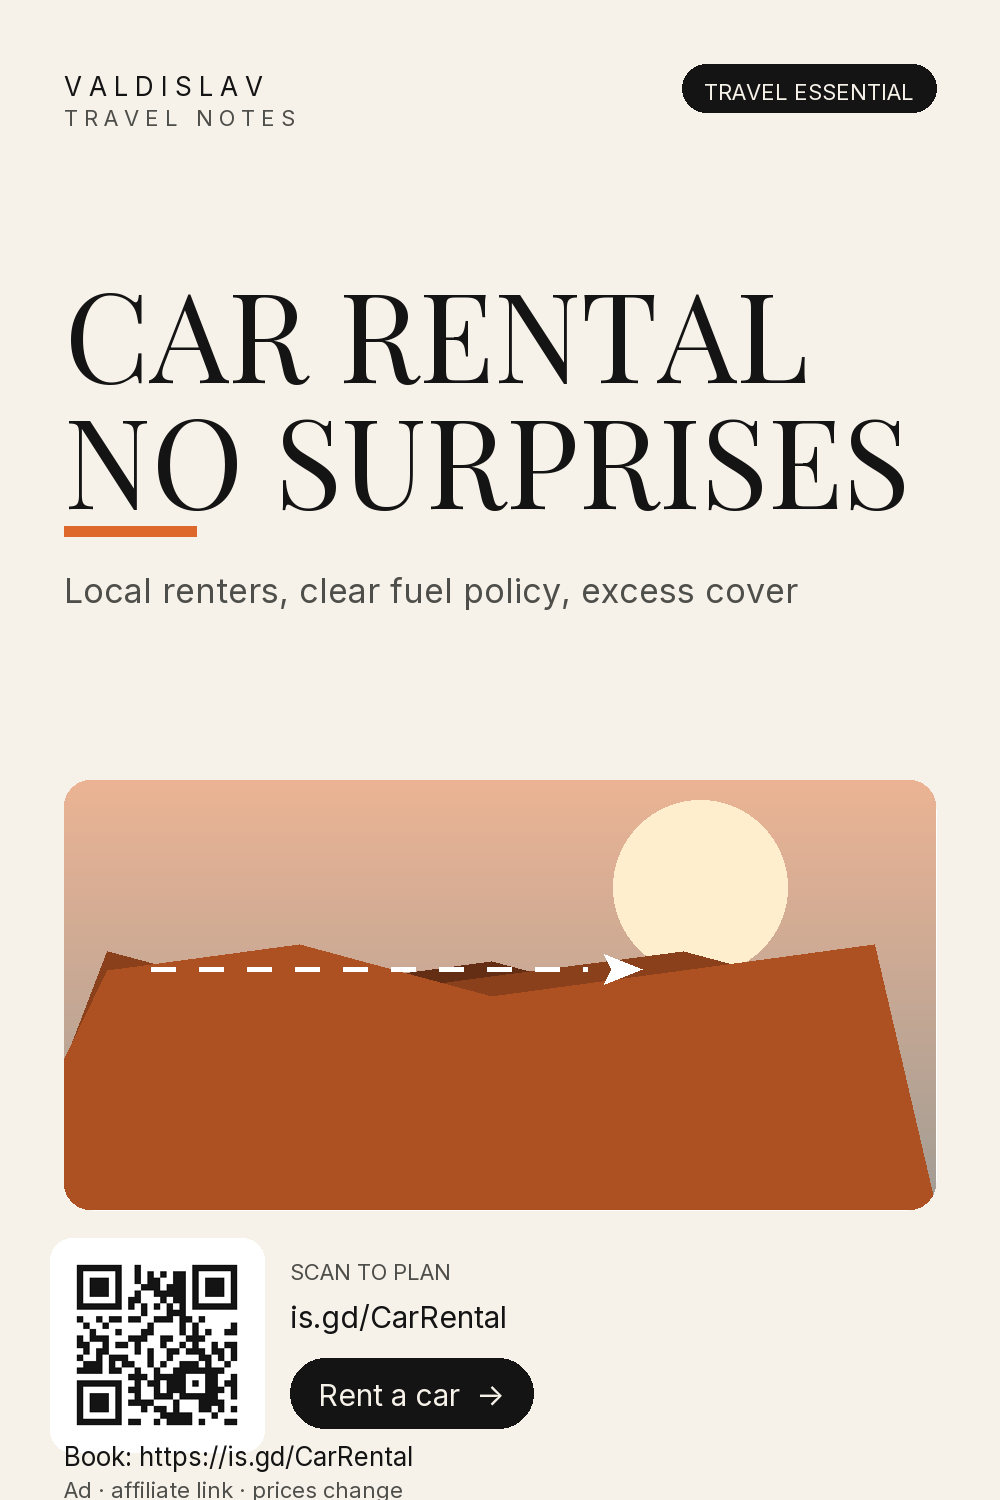
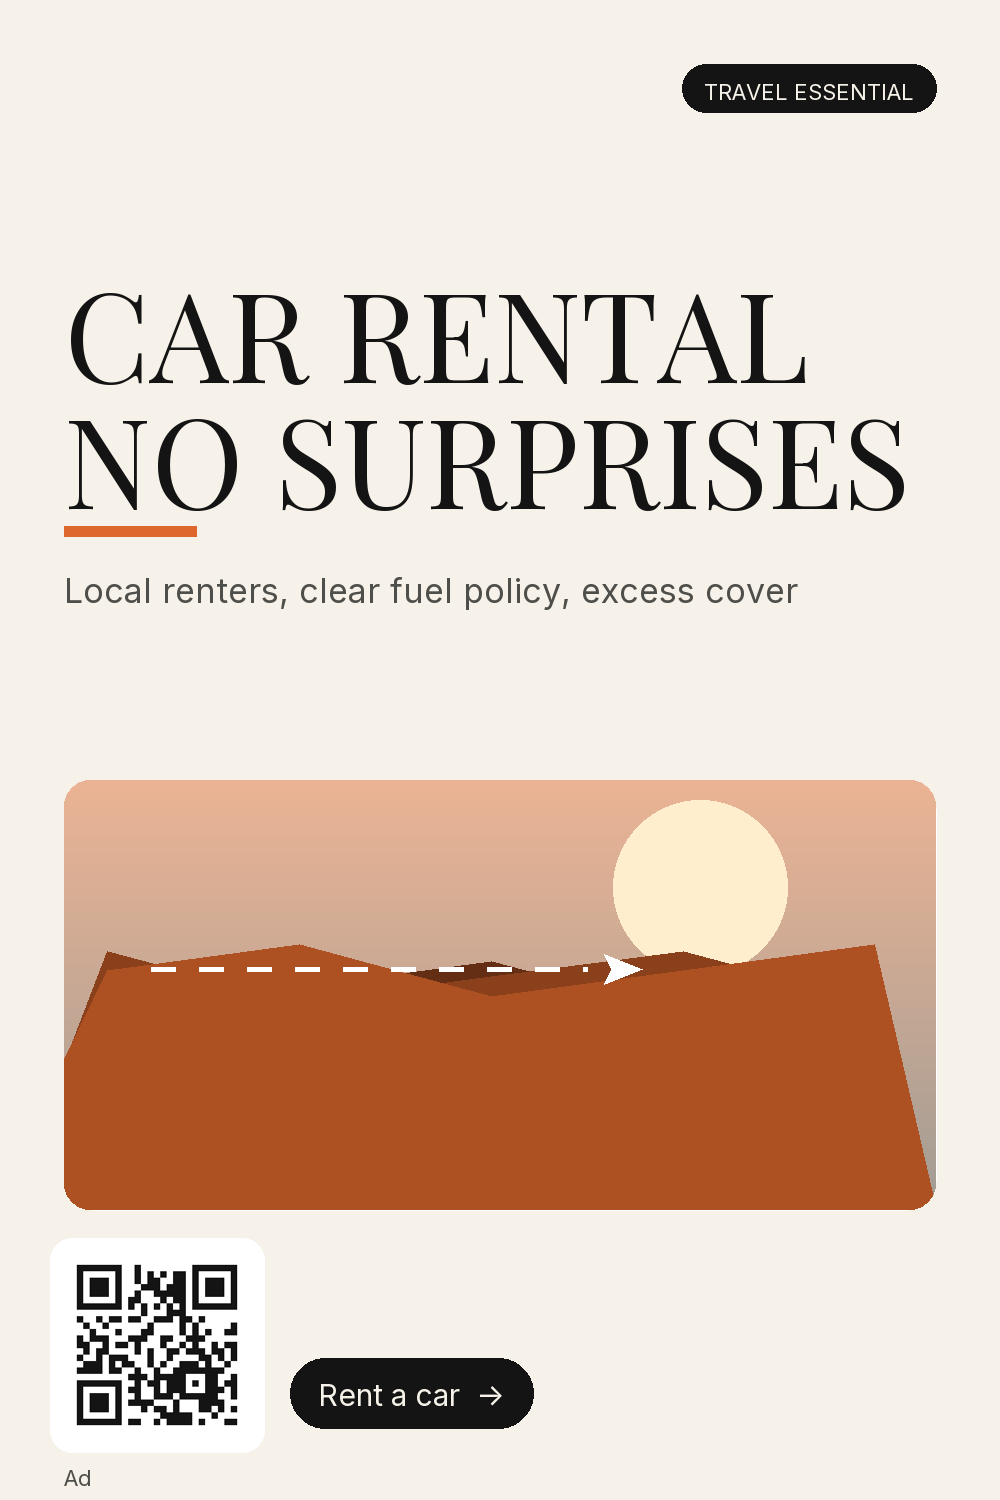
feat(pins): v3 — без бренд-подписей, без ссылок/QR-подписей (QR + CTA), футер только Ad

diff --git a/scripts/build_qr_pins_v2.py b/scripts/build_qr_pins_v2.py
@@ -70,8 +70,6 @@ def render(pin, out_dir):
     head=ImageFont.truetype(playfair,124); prom=ImageFont.truetype(inter,34)
     cta=ImageFont.truetype(inter,30); tiny=ImageFont.truetype(inter,22)
     accent=pin["accent"]
-    draw.text((64,70),"V A L D I S L A V",font=brand,fill=INK)
-    draw.text((64,104),"T R A V E L   N O T E S",font=tiny,fill=MUTED)
     tw=draw.textlength(pin["tag"],font=tagf)
     draw.rounded_rectangle((W-64-tw-44,64,W-64,112),radius=24,fill=INK)
     draw.text((W-64-tw-22,78),pin["tag"],font=tagf,fill=CREAM)
@@ -95,14 +93,10 @@ def render(pin, out_dir):
     qr_img=Image.open(buf).convert("RGB").resize((186,186))
     draw.rounded_rectangle((50,1238,50+186+28,1238+186+28),radius=22,fill=(255,255,255))
     img.paste(qr_img,(64,1252))
-    draw.text((64+186+40,1258),"SCAN TO PLAN",font=tiny,fill=MUTED)
-    draw.text((64+186+40,1298),pin["alias"],font=cta,fill=INK)
     ctext=pin["cta"]+"  \u2192"; cw=draw.textlength(ctext,font=cta)
     draw.rounded_rectangle((64+186+40,1358,64+186+40+cw+56,1428),radius=35,fill=INK)
     draw.text((64+186+40+28,1376),ctext,font=cta,fill=CREAM)
-    link_font=ImageFont.truetype(inter,26)
-    draw.text((64,1440),"Book: https://"+pin["alias"],font=link_font,fill=INK)
-    draw.text((64,1476),"Ad \u00b7 affiliate link \u00b7 prices change",font=tiny,fill=MUTED)
+    draw.text((64,1464),"Ad",font=tiny,fill=MUTED)
     out_dir.mkdir(parents=True,exist_ok=True)
     path=out_dir/f"{pin['slug']}.png"; img.save(path,"PNG"); return path
 
